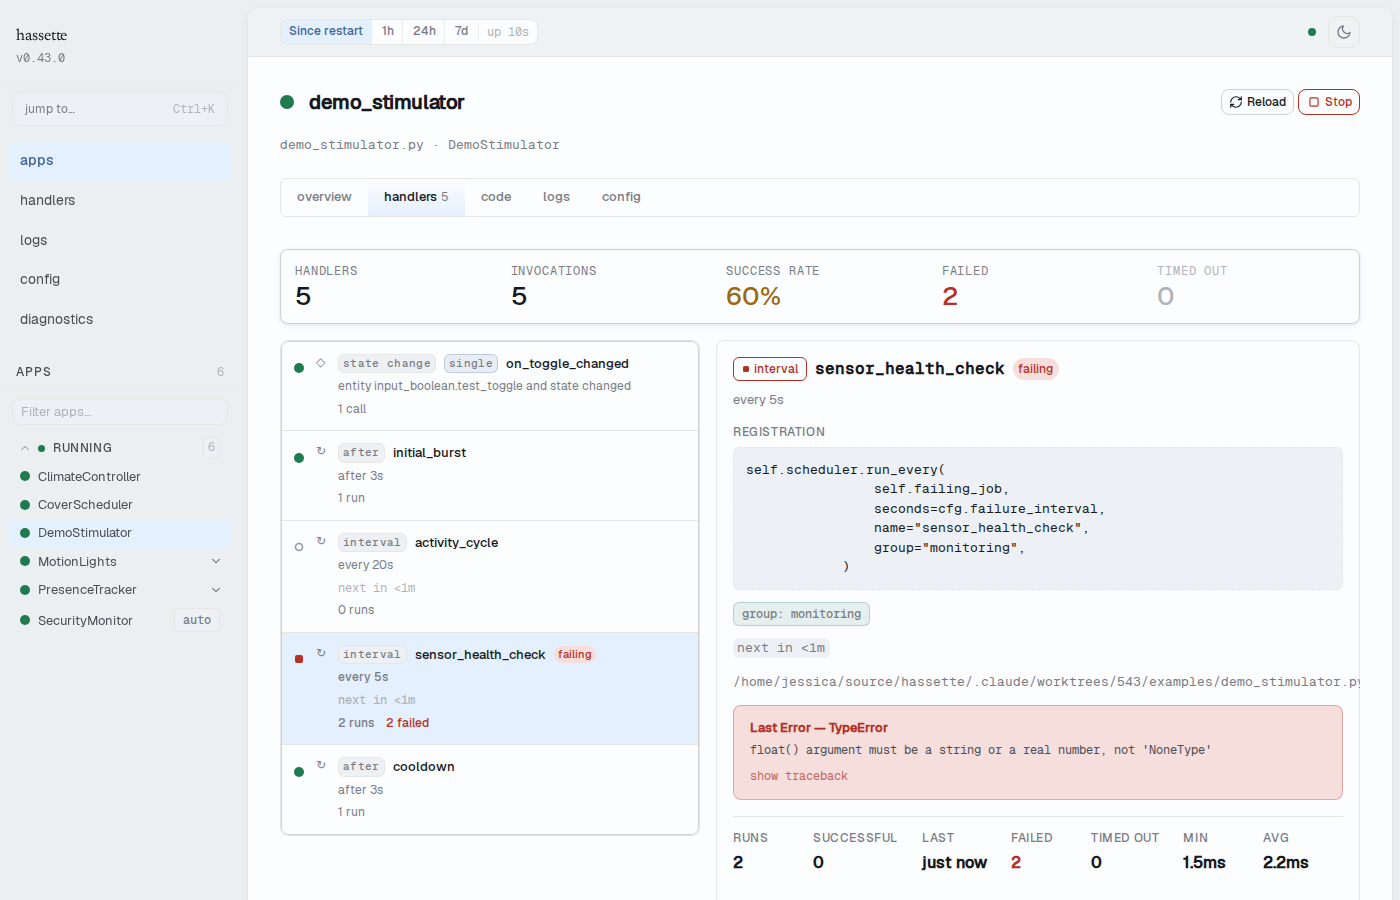
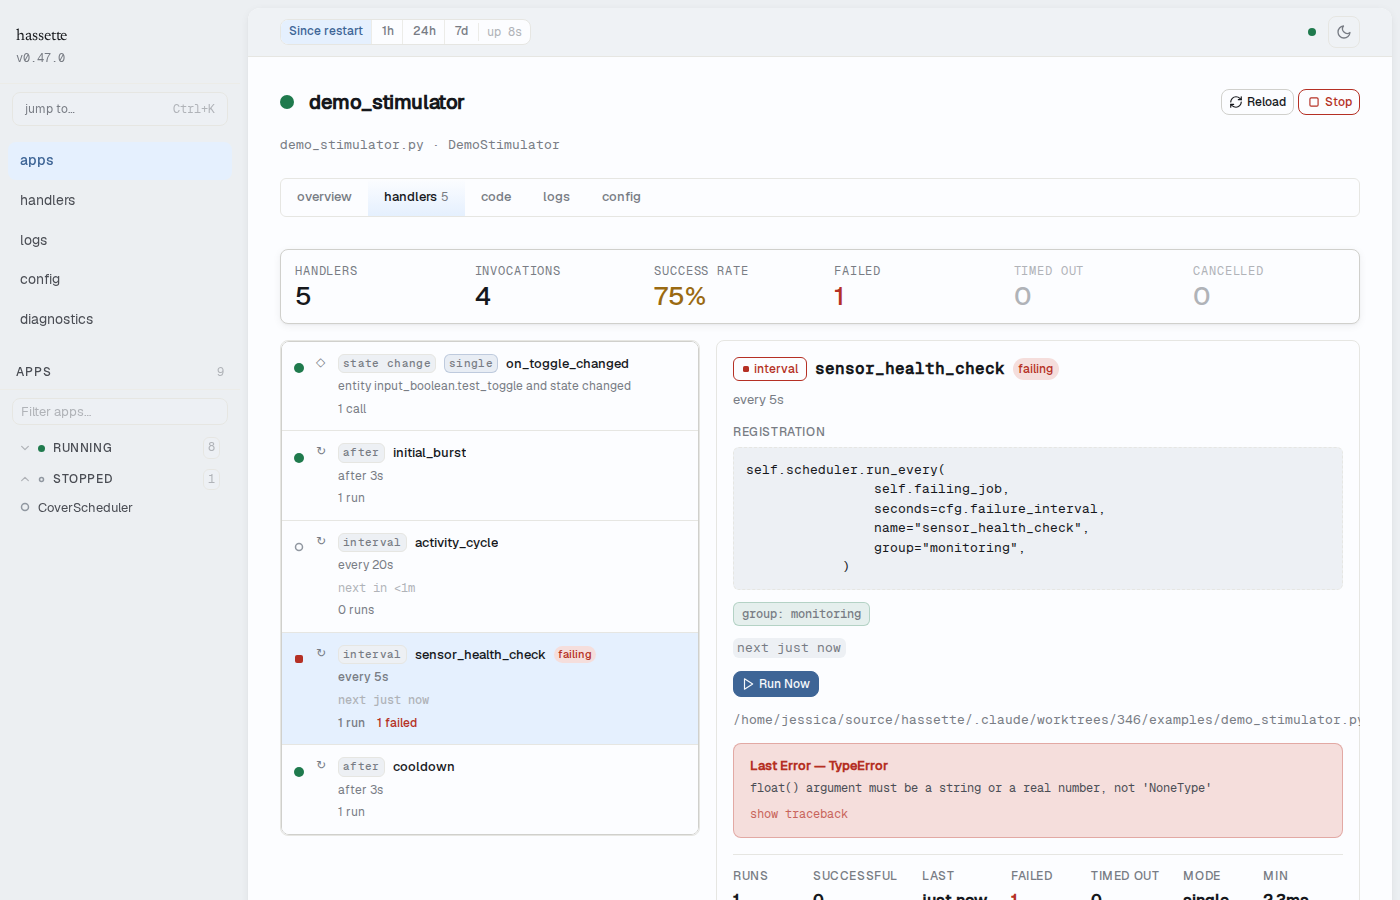
WIP: T04 -- Display trigger_mode in execution UI and update docs

diff --git a/frontend/src/components/shared/execution-table.test.tsx b/frontend/src/components/shared/execution-table.test.tsx
@@ -207,6 +207,33 @@ describe("ExecutionTable", () => {
     expect(container.textContent).toContain("thread leaked");
   });
 
+  // ── Manual trigger badge ──
+
+  it("shows manual badge when trigger_mode is manual", () => {
+    const { container } = render(
+      <ExecutionTable records={[createExecution("job", { trigger_mode: "manual" })]} kind="job" tableId="t" />,
+    );
+    expect(container.textContent).toContain("manual");
+  });
+
+  it("does not show manual badge when trigger_mode is null", () => {
+    const { container } = render(
+      <ExecutionTable records={[createExecution("job", { trigger_mode: null })]} kind="job" tableId="t" />,
+    );
+    const row = container.querySelector("[data-testid='execution-row']")!;
+    expect(row.textContent).not.toContain("manual");
+  });
+
+  it("expanded detail shows trigger_mode value when present", () => {
+    const { container } = render(
+      <ExecutionTable records={[createExecution("job", { trigger_mode: "manual" })]} kind="job" tableId="t" />,
+    );
+    fireEvent.click(container.querySelector("[data-testid='execution-row']")!);
+    const detail = container.querySelector("[data-testid='execution-detail']")!;
+    expect(detail.textContent).toContain("trigger mode");
+    expect(detail.textContent).toContain("manual");
+  });
+
   // ── Cancelled rows ──
 
   it("shows a cancelled label on a cancelled row", () => {

diff --git a/frontend/src/components/shared/detail-panel.tsx b/frontend/src/components/shared/detail-panel.tsx
@@ -10,6 +10,7 @@ interface Props {
   errorType?: string | null;
   errorMessage?: string | null;
   errorTraceback?: string | null;
+  triggerMode?: string | null;
   context?: {
     triggerContextId: string;
     triggerOrigin?: string | null;
@@ -24,6 +25,7 @@ export function DetailPanel({
   errorType,
   errorMessage,
   errorTraceback,
+  triggerMode,
   context,
   testId,
 }: Props) {
@@ -31,6 +33,13 @@ export function DetailPanel({
 
   return (
     <div class={styles.panel} data-testid={testId}>
+      {triggerMode && (
+        <div class={styles.metaItem}>
+          <span class={styles.label}>trigger mode</span>
+          <span class="ht-text-mono ht-text-xs">{triggerMode}</span>
+        </div>
+      )}
+
       {context && (
         <div class={styles.metaItem}>
           <span class={styles.label}>context</span>

diff --git a/frontend/src/components/shared/execution-table.tsx b/frontend/src/components/shared/execution-table.tsx
@@ -27,6 +27,7 @@ export interface ExecutionRecord {
   execution_id?: string | null;
   trigger_context_id?: string | null;
   trigger_origin?: string | null;
+  trigger_mode?: string | null;
   thread_leaked: boolean;
 }
 
@@ -118,6 +119,11 @@ export function ExecutionTable({ records, kind, tableId }: ExecutionTableProps) 
                         thread leaked
                       </Badge>
                     )}
+                    {record.trigger_mode === "manual" && (
+                      <Badge variant="info" size="sm" aria-label="manually triggered">
+                        manual
+                      </Badge>
+                    )}
                   </div>
                 </td>
                 <td class="ht-text-mono ht-text-xs">{formatTimestamp(record.execution_start_ts)}</td>
@@ -137,6 +143,7 @@ export function ExecutionTable({ records, kind, tableId }: ExecutionTableProps) 
                       errorType={record.error_type}
                       errorMessage={record.error_message}
                       errorTraceback={record.error_traceback}
+                      triggerMode={record.trigger_mode}
                       context={
                         record.trigger_context_id
                           ? {

diff --git a/docs/pages/web-ui/debug-handler.md b/docs/pages/web-ui/debug-handler.md
@@ -56,6 +56,10 @@ Select your handler. The detail panel shows:
 
 A gray ring on a handler in the left panel means it has never been invoked. A red square means at least one invocation has failed or timed out.
 
+Select a scheduled job instead of a handler and the detail panel adds a **Run Now** button. Clicking it triggers the job immediately, outside its normal schedule. The button shows a spinner while the request is in flight and stays disabled until it completes, so double clicks can't fire two executions. A 409 response — the job is already running in single mode, or has already fired as a one-shot — shows an inline error below the button.
+
+The execution history updates with the new run over the WebSocket connection, no refresh needed. A manually triggered row carries a **manual** badge next to its status, so you can tell it apart from a scheduled fire at a glance.
+
 ## Tracing a Single Execution
 
 Click an execution ID in the invocations table. Hassette opens the [Logs page](logs.md) filtered to that execution with `?execution_id=<id>` in the URL. Every log line the handler emitted during that run appears together, in order.

diff --git a/design/specs/002-run-now-button/tasks/T04-trigger-mode-display-and-docs.md b/design/specs/002-run-now-button/tasks/T04-trigger-mode-display-and-docs.md
@@ -1,7 +1,7 @@
 ---
 task_id: "T04"
 title: "Display trigger_mode in execution UI and update docs"
-status: "planned"
+status: "done"
 depends_on: ["T02", "T03"]
 implements: ["FR#9", "FR#10", "AC#9", "AC#10"]
 ---